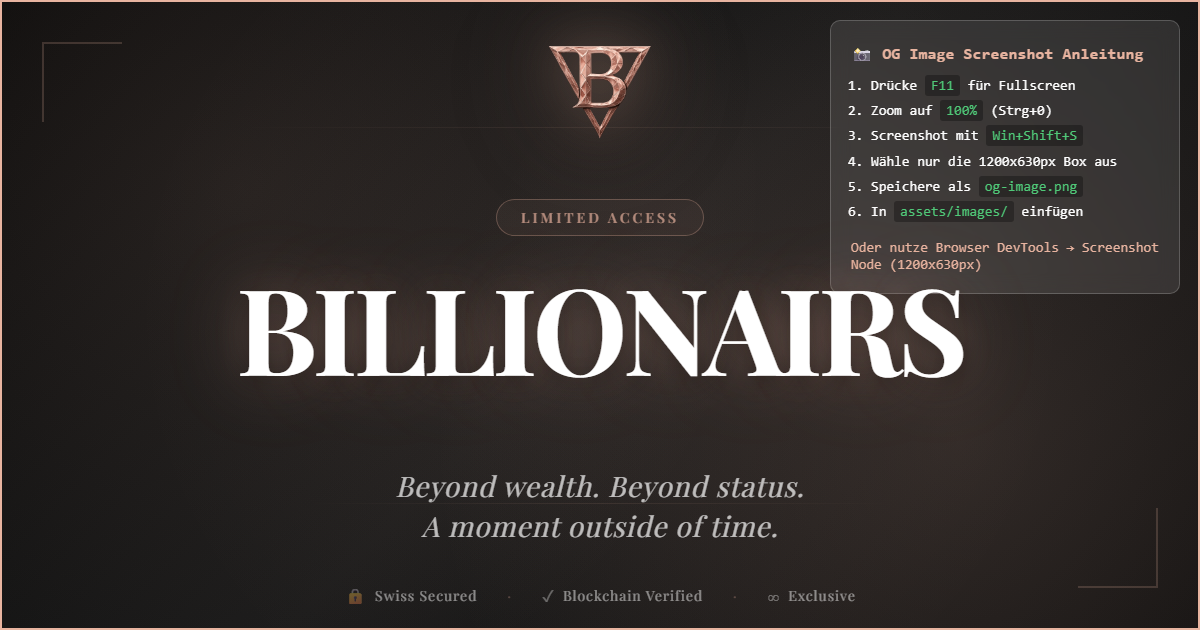
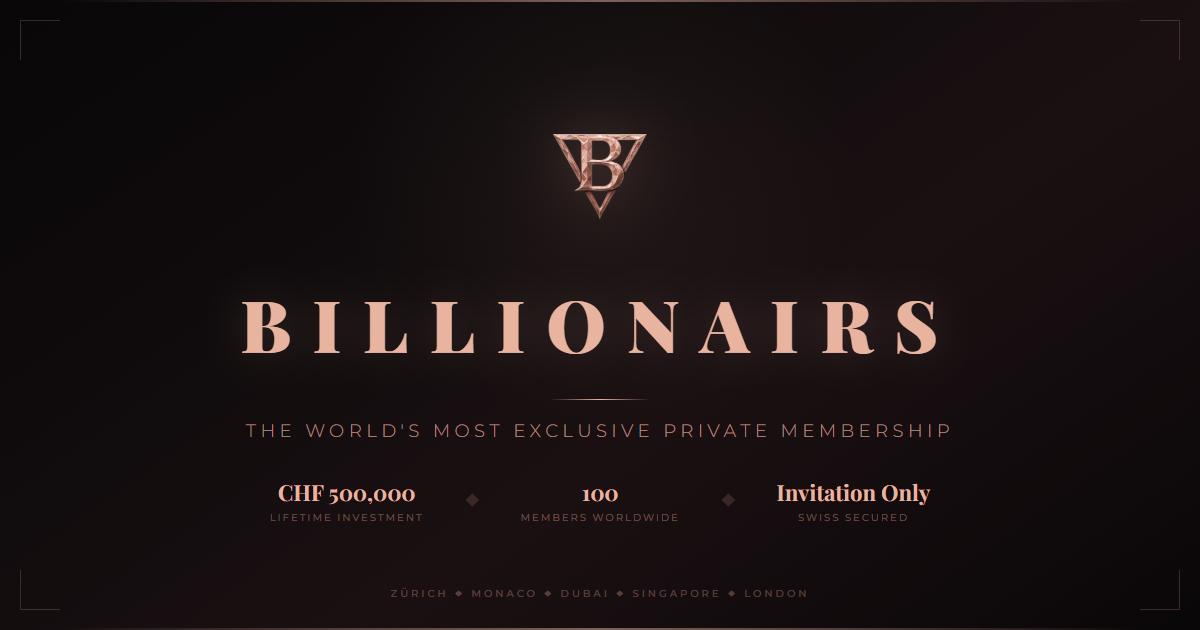
OG Image: Neues luxuriöses 1200x630 Preview-Bild für Social Media

diff --git a/index.html b/index.html
@@ -44,14 +44,14 @@
     <!-- Open Graph / Facebook Meta Tags -->
     <meta property="og:type" content="website">
     <meta property="og:url" content="https://billionairs.luxury/">
-    <meta property="og:title" content="BILLIONAIRS - The World's Most Exclusive Private Membership">
-    <meta property="og:description" content="Beyond wealth. Beyond status. The most exclusive private membership in the world. Ultra-luxury experiences, elite networking & billionaire lifestyle. By invitation only.">
-    <meta property="og:image" content="https://billionairs.luxury/assets/images/og-image.jpg">
-    <meta property="og:image:secure_url" content="https://billionairs.luxury/assets/images/og-image.jpg">
-    <meta property="og:image:type" content="image/jpeg">
+    <meta property="og:title" content="BILLIONAIRS — CHF 500,000. 100 Members. By Invitation Only.">
+    <meta property="og:description" content="The world's most exclusive private membership. Swiss-secured. AES-256 encrypted. Pre-market investments, rare collectibles & elite networking in Zürich, Monaco & Dubai.">
+    <meta property="og:image" content="https://billionairs.luxury/assets/images/og-image.png">
+    <meta property="og:image:secure_url" content="https://billionairs.luxury/assets/images/og-image.png">
+    <meta property="og:image:type" content="image/png">
     <meta property="og:image:width" content="1200">
     <meta property="og:image:height" content="630">
-    <meta property="og:image:alt" content="BILLIONAIRS - Exclusive Digital Experience">
+    <meta property="og:image:alt" content="BILLIONAIRS - The World's Most Exclusive Private Membership for Billionaires">
     <meta property="og:site_name" content="BILLIONAIRS">
     <meta property="og:locale" content="en_US">
     <meta property="og:locale:alternate" content="de_DE">
@@ -66,11 +66,12 @@
     <!-- Twitter Card Meta Tags -->
     <meta name="twitter:card" content="summary_large_image">
     <meta name="twitter:url" content="https://billionairs.luxury/">
-    <meta name="twitter:title" content="BILLIONAIRS - The World's Most Exclusive Private Membership">
-    <meta name="twitter:description" content="Beyond wealth. Beyond status. The most exclusive private membership in the world. Apply now.">
-    <meta name="twitter:image" content="https://billionairs.luxury/assets/images/og-image.jpg">
-    <meta name="twitter:image:alt" content="BILLIONAIRS Logo">
-    <meta name="twitter:creator" content="@billionairs">
+    <meta name="twitter:title" content="BILLIONAIRS — CHF 500,000. 100 Members. By Invitation Only.">
+    <meta name="twitter:description" content="The world's most exclusive private membership. Swiss-secured. AES-256 encrypted. Pre-market investments, rare collectibles & elite networking in Zürich, Monaco & Dubai.">
+    <meta name="twitter:image" content="https://billionairs.luxury/assets/images/og-image.png">
+    <meta name="twitter:image:alt" content="BILLIONAIRS - CHF 500,000 Luxury Membership">
+    <meta name="twitter:site" content="@billionairslxry">
+    <meta name="twitter:creator" content="@billionairslxry">
     
     <!-- Additional SEO Tags -->
     <meta name="geo.region" content="CH">
@@ -257,7 +258,7 @@
         "name": "BILLIONAIRS",
         "logo": "https://billionairs.luxury/assets/images/logo.png"
       },
-      "image": "https://billionairs.luxury/assets/images/og-image.jpg",
+      "image": "https://billionairs.luxury/assets/images/og-image.png",
       "url": "https://billionairs.luxury/",
       "offers": {
         "@type": "Offer",
